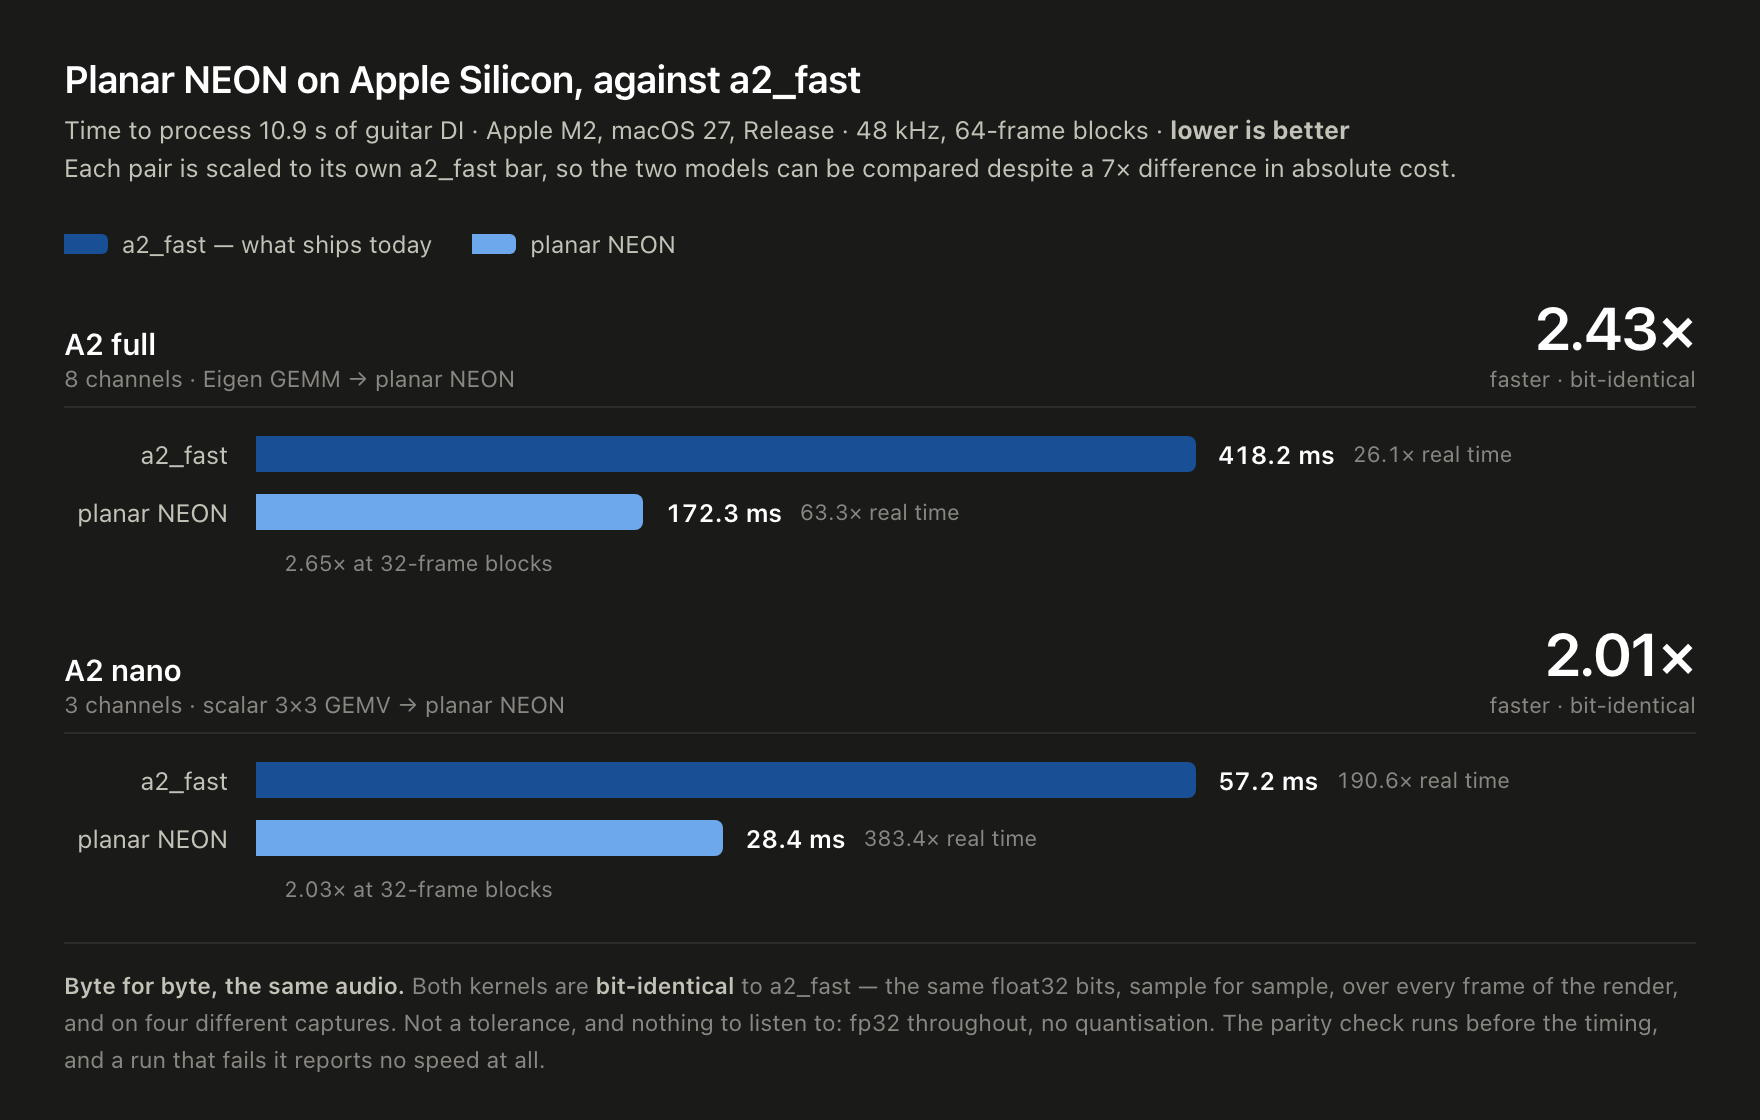
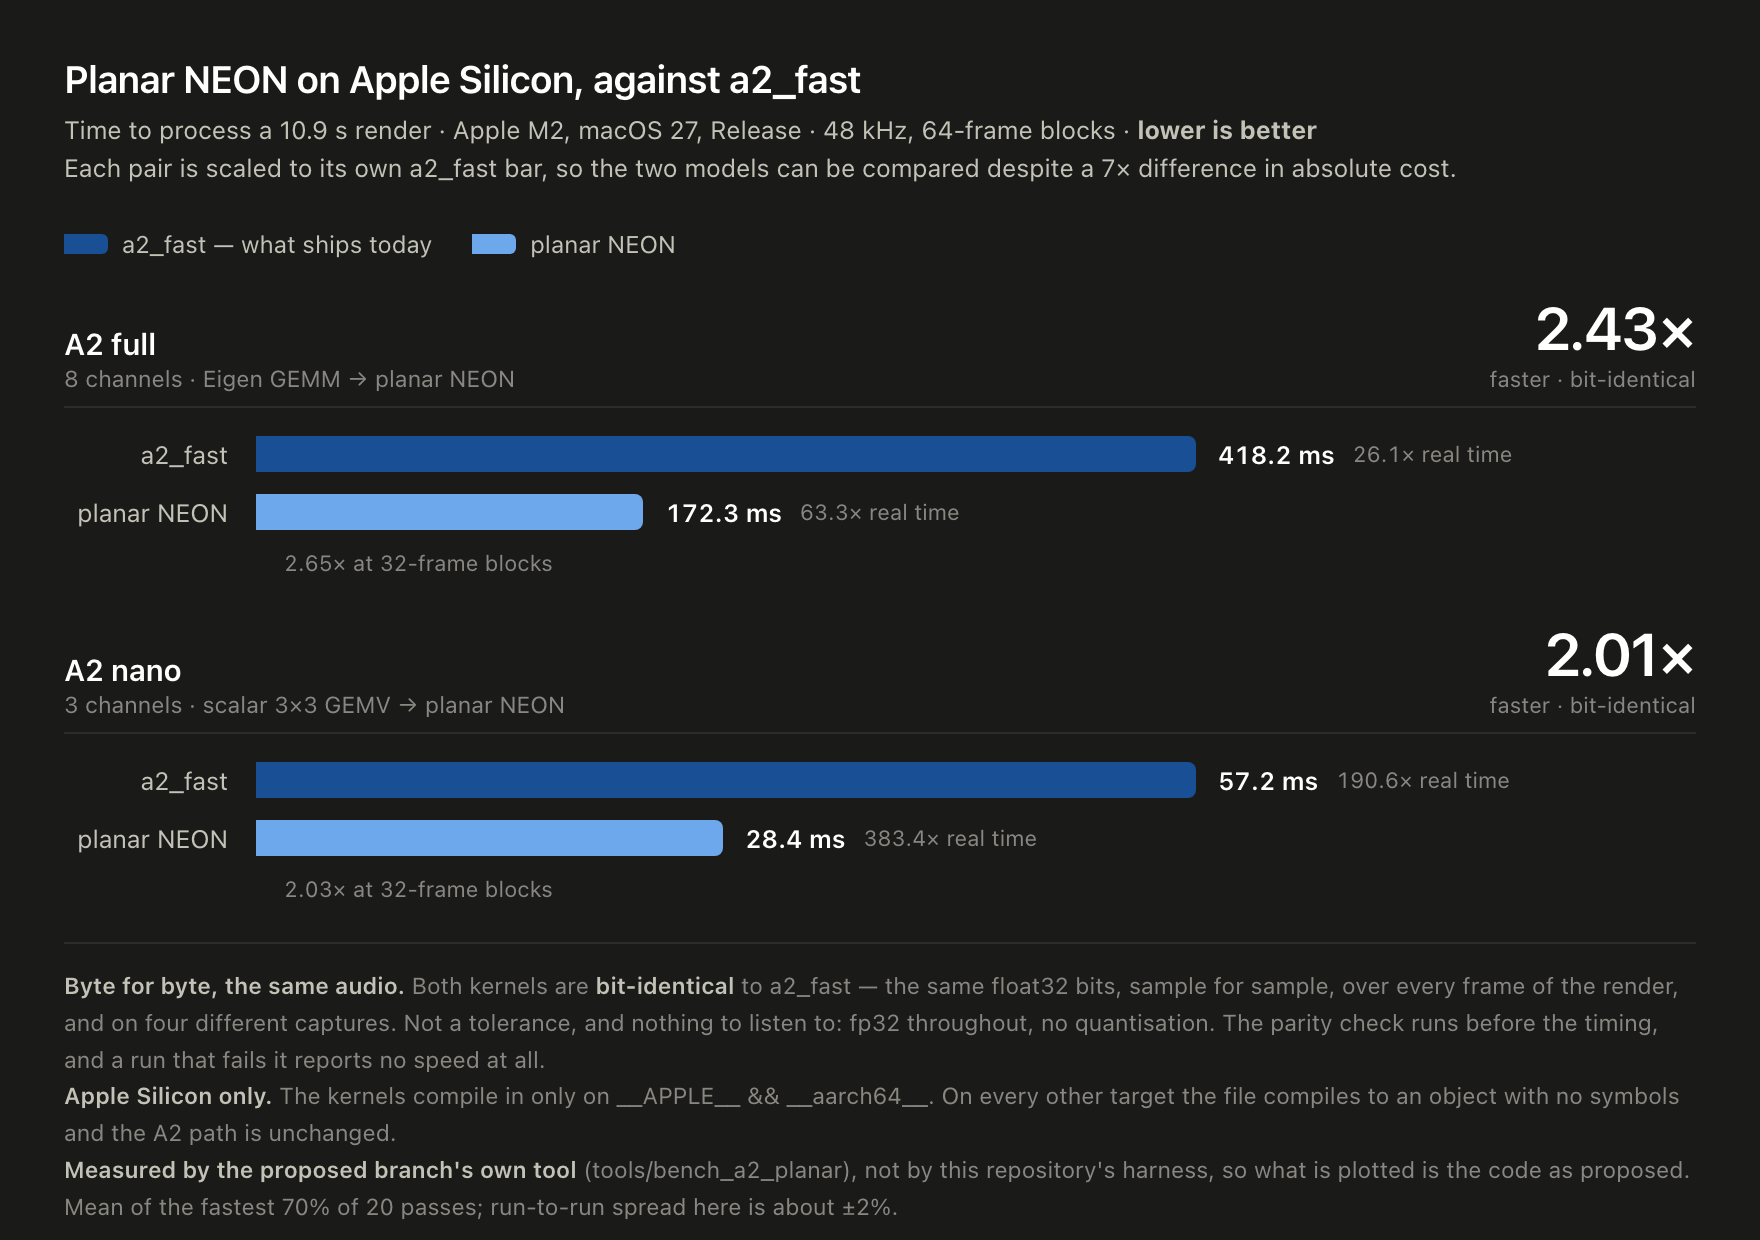
charts: state the planar chart's provenance, and correct its signal
Two corrections to nam-planar-headline.

It said "10.9 s of guitar DI", inherited from the chart it was modelled
on. That is what this repository's harness renders; the numbers on this
chart come from the Core PR's own tools/bench_a2_planar, which generates
its own three-tone signal. Now says "a 10.9 s render", with a footnote
naming the tool.

It said nothing about where the kernels are active, which for a chart
about a platform-specific change is the first thing a reader should be
able to see. Now says so: Apple Silicon only, everything else compiles to
an object with no symbols.

The provenance note is repeated in the data table's comment and in the
README, because a figure nobody can trace to a harness is a figure that
eventually gets attributed to the wrong one.

diff --git a/charts/build_charts.py b/charts/build_charts.py
@@ -71,8 +71,14 @@ HEADLINE = [
 ]
 
 # The bit-identical pair, as shipped in the Core PR rather than as lab kernels.
-# Measured by that PR's own tools/bench_a2_planar on the same M2: 10.9 s render
-# per pass, mean of the fastest 70% of 20 passes, parity checked before timing.
+#
+# These numbers do NOT come from this repository's harness. They come from the
+# PR's own tools/bench_a2_planar, run on that branch on the same M2: a 10.9 s
+# render per pass of the three-tone signal that tool generates itself (not the
+# guitar DI the other charts use), mean of the fastest 70% of 20 passes, parity
+# checked bit-for-bit before anything is timed. Keeping the provenance separate
+# matters: what is plotted here is the code actually proposed, measured by the
+# tool a reviewer gets in the same PR.
 PLANAR_HEADLINE = [
     dict(
         title="A2 full", channels="8 channels",
@@ -282,14 +288,16 @@ def planar_headline_html(t):
 </style></head><body>
   <div class="card">
     <h1>Planar NEON on Apple Silicon, against <span class="mono">a2_fast</span></h1>
-    <p class="sub">Time to process 10.9&nbsp;s of guitar DI &middot; Apple M2, macOS 27, Release &middot; 48&nbsp;kHz, 64-frame blocks &middot; <b>lower is better</b><br>
+    <p class="sub">Time to process a 10.9&nbsp;s render &middot; Apple M2, macOS 27, Release &middot; 48&nbsp;kHz, 64-frame blocks &middot; <b>lower is better</b><br>
       Each pair is scaled to its own <span class="mono">a2_fast</span> bar, so the two models can be compared despite a 7&times; difference in absolute cost.</p>
     <div class="legend">
       <span><i class="swatch" style="background:{t['before']}"></i>a2_fast &mdash; what ships today</span>
       <span><i class="swatch" style="background:{t['after']}"></i>planar NEON</span>
     </div>
     {''.join(rows)}
-    <p class="foot"><b>Byte for byte, the same audio.</b> Both kernels are <b>bit-identical</b> to <span class="mono">a2_fast</span> &mdash; the same float32 bits, sample for sample, over every frame of the render, and on four different captures. Not a tolerance, and nothing to listen to: fp32 throughout, no quantisation. The parity check runs before the timing, and a run that fails it reports no speed at all.</p>
+    <p class="foot"><b>Byte for byte, the same audio.</b> Both kernels are <b>bit-identical</b> to <span class="mono">a2_fast</span> &mdash; the same float32 bits, sample for sample, over every frame of the render, and on four different captures. Not a tolerance, and nothing to listen to: fp32 throughout, no quantisation. The parity check runs before the timing, and a run that fails it reports no speed at all.<br>
+      <b>Apple Silicon only.</b> The kernels compile in only on <span class="mono">__APPLE__ &amp;&amp; __aarch64__</span>. On every other target the file compiles to an object with no symbols and the A2 path is unchanged.<br>
+      <b>Measured by the proposed branch's own tool</b> (<span class="mono">tools/bench_a2_planar</span>), not by this repository's harness, so what is plotted is the code as proposed. Mean of the fastest 70&percnt; of 20 passes; run-to-run spread here is about &plusmn;2&percnt;.</p>
   </div>
 </body></html>"""
 
@@ -384,7 +392,7 @@ def detail_html(t):
 CHARTS = [
     ("nam-speedup-headline", headline_html, 880, 500),
     ("nam-nano-detail", detail_html, 880, 872),
-    ("nam-planar-headline", planar_headline_html, 880, 560),
+    ("nam-planar-headline", planar_headline_html, 880, 620),
 ]
 
 

diff --git a/charts/README.md b/charts/README.md
@@ -13,10 +13,16 @@ All three also exist as `*-dark.png`.
 
 `nam-planar-headline` is the headline chart one round later. The earlier one had
 to qualify A2 full with "132.6 dB below signal", because the engine that won
-there reassociated; this one says **bit-identical** on both rows. Its numbers
-come from the Core PR's own `tools/bench_a2_planar` rather than from this
-repository's harness — same machine, same protocol, but measuring the code that
-was actually proposed rather than the lab kernels it came from.
+there reassociated; this one says **bit-identical** on both rows.
+
+**Its numbers do not come from this repository.** They come from the Core PR's
+own `tools/bench_a2_planar`, run on that branch: same M2, same 70%-of-passes
+treatment, but a 10.9 s render of the three-tone signal that tool generates
+rather than the guitar DI the other two charts use, and — the point of the
+exercise — measuring the code that was actually proposed rather than the lab
+kernels it came from. The two provenances are kept apart on purpose, in the
+chart's own footnote as well as here, so no figure has to be traced back through
+two harnesses to know what produced it.
 
 ## Regenerating
 
